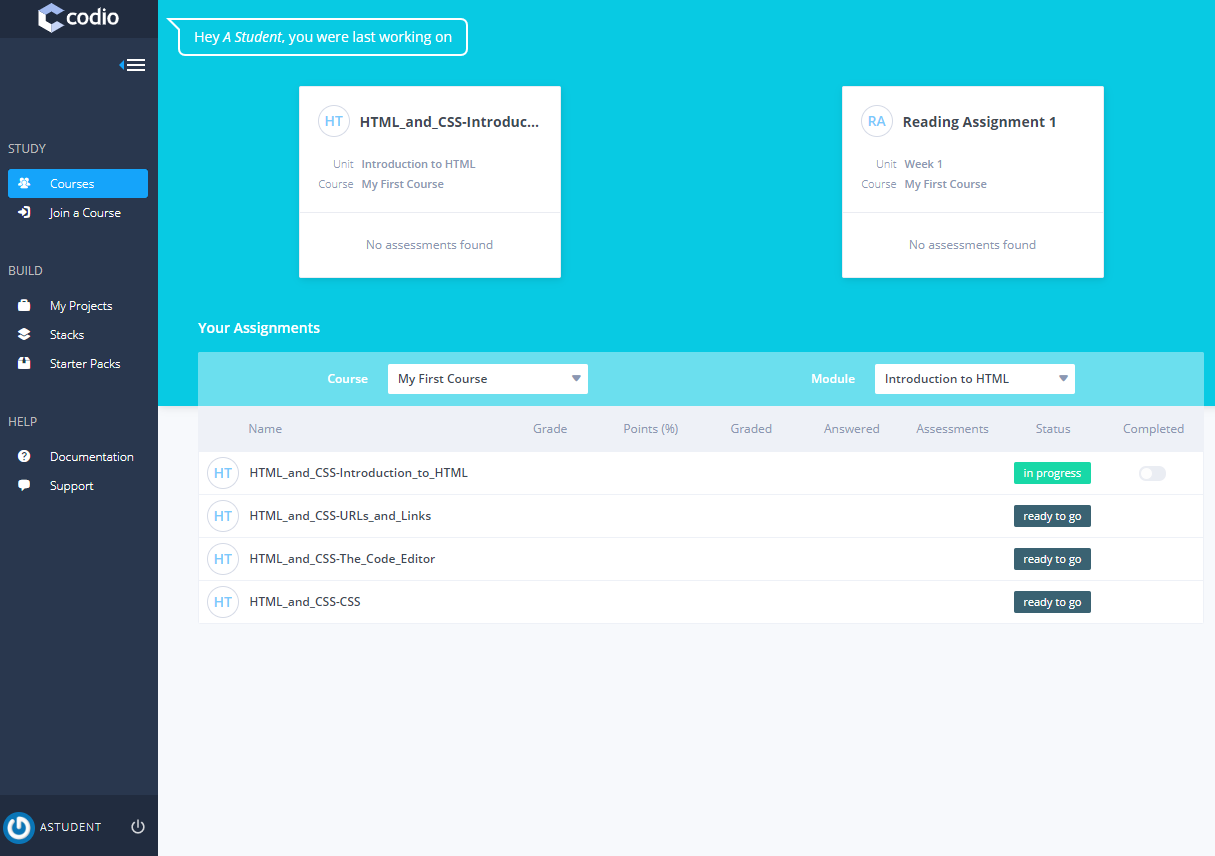
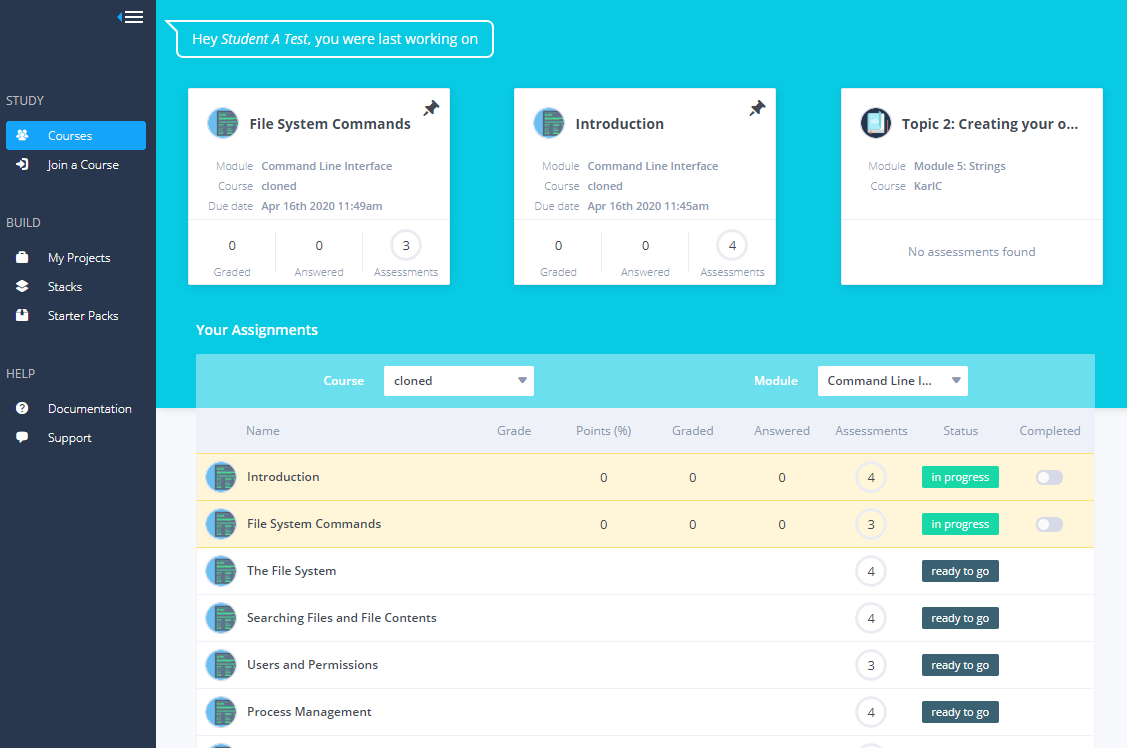
changelog #11339 #11325 #10971 #8785 #10718 #11273 #11362

diff --git a/docs/courses/classes.md b/docs/courses/classes.md
@@ -82,13 +82,19 @@ Please note, students in the existing course will not be added to the new course
 
 Where you have cloned a course, there will be a relationship between the original (Master) course content and the clone (Child) course content so that if you have need to edit/update an assignment in the master course these changes can be pulled into the child courses.
 
-After publishing the update from the original course, go to the cloned course where (in 'edit' mode) you will see the option to Pull
-![Pull](/img/manage_classes/pull.png)
+After publishing the update from the original course, go to the cloned course where (in 'edit' mode) you will see the option to Pull for the individual assignments.
+
+![Pull](/img/manage_classes/pull.png) 
 
 Details will be shown of the update published in the original course to allow for confirmation and on acceptance the update will be pulled in to the assignment in the cloned course.
+
 ![Update](/img/manage_classes/updatedialog.png)
 
-The option to Pull will only be shown if an update to the assignment has been published in the original course.
+You can also **Pull All** to pull all updates available for each module but be aware this will not show you the details for each updated assignment. To see this information, use the individual **Pull** for the assignment.
+
+![Pull All](/img/manage_classes/pullall.png) 
+
+The option to pull at the module or individual level will only be shown if an update to the assignment has been published in the original course.
 
 
 ## Searching and ordering courses

diff --git a/docs/resources/changelog.md b/docs/resources/changelog.md
@@ -13,6 +13,12 @@ We do not report small bug fixes or issues that affect individual users, who we 
 
 **April 2020**
 
+- `[F] [14th]`: Show assignment end date (where set) to students in their recently used cards in their [dashboard](/students/#courses)
+- `[I] [14th]`: Fix issue with mark as completed button not showing on frame reload
+- `[I] [14th]`: Update message to students when trying to start assignments in LTI enabled courses
+- `[I] [14th]`: Add Rubric feedback to students when viewing their grades
+- `[I] [14th]`: Add functions to allow pull to child courses at course module level
+- `[I] [14th]`: Improve updating child courses showing pull option for child of child courses
 - `[I] [13th]`: Added 'Number of started' and 'Number of completed' to student tab [order by](/courses/grading/#accessing-student-work) field
 - `[I] [ 9th]`: [Onboarding Guide](https://codio.com/home/starter-packs/2ae8501b-e5f7-4b07-8e9f-adb155fc6d10) updated for new IDE
 - `[I] [ 8th]`: Fix issue in My Projects - Shared with Me

diff --git a/docs/students.md b/docs/students.md
@@ -27,7 +27,7 @@ To access your course after this point, log in to your Codio account and go to t
 
 ## Courses
 
-The **Courses** area is where you can see the modules and assignments that have been assigned to you. Pinned assignments will be displayed more prominently at the top of the page.
+The **Courses** area is where you can see the modules and assignments that have been assigned to you. Up to 5 pinned assignments will be displayed more prominently at the top of the page and where your teacher has set an end date for the assignment, this will be shown in the card.
 
 Below is an example of a student’s **Courses** area:
 
